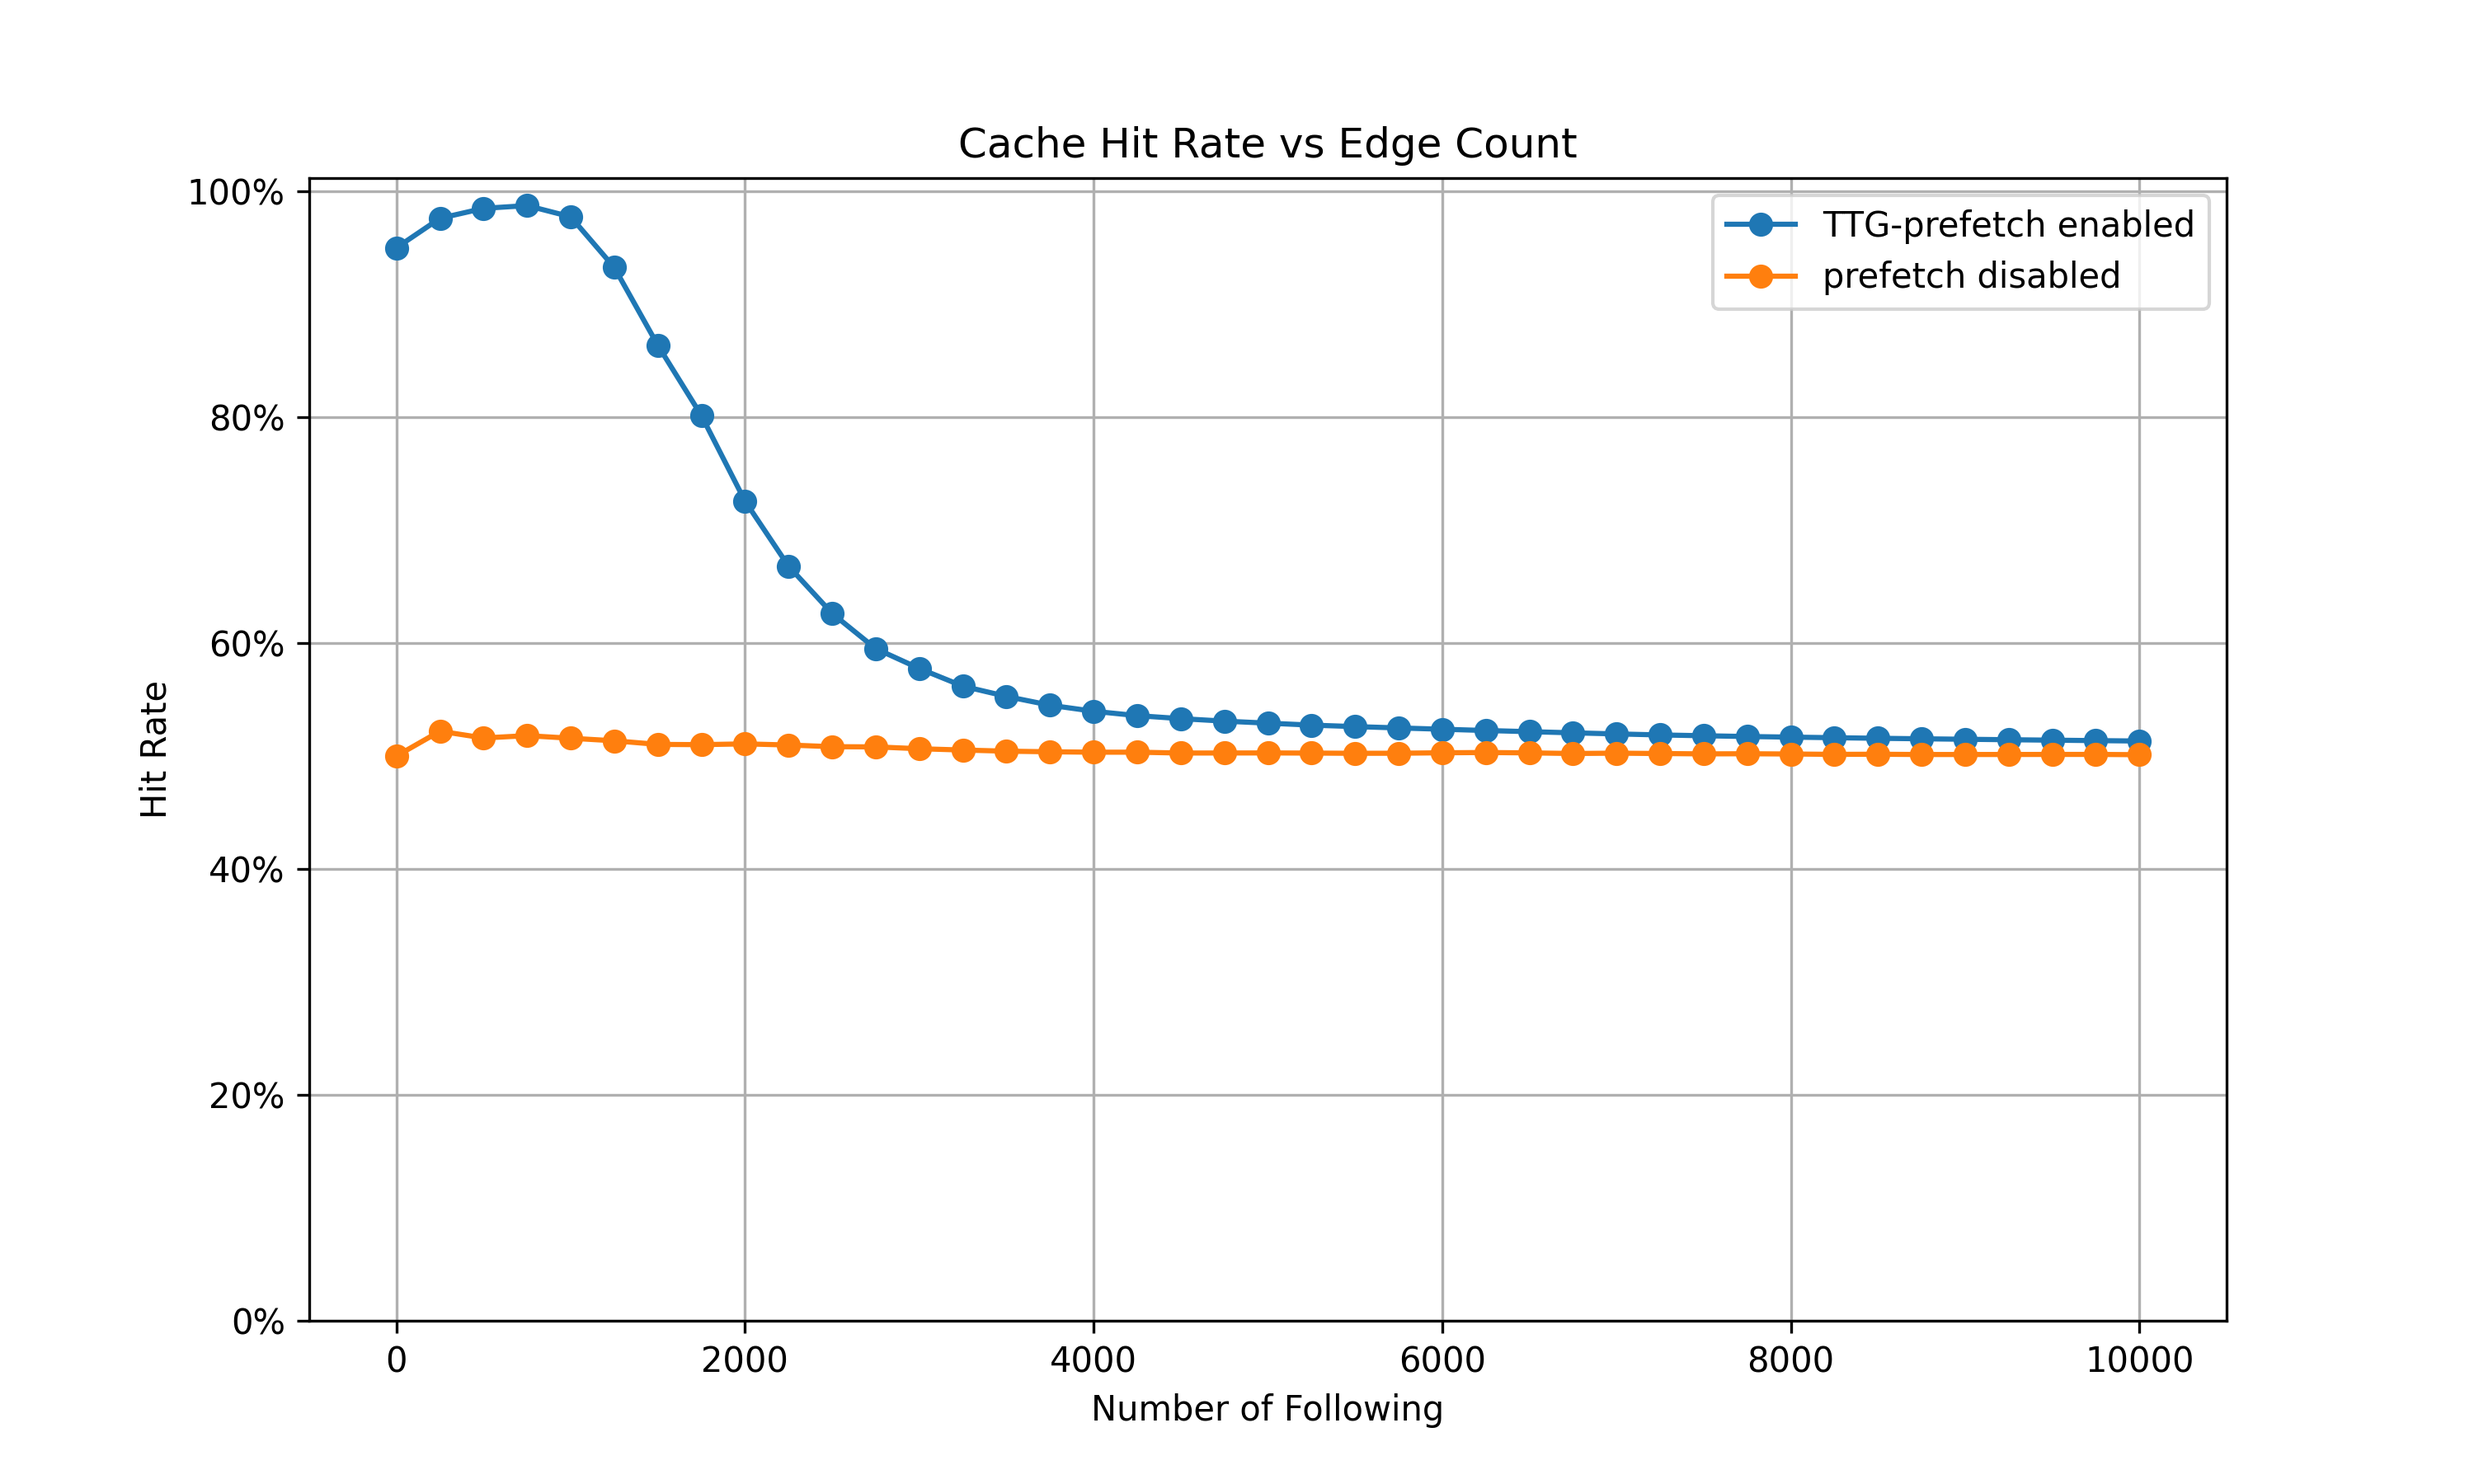
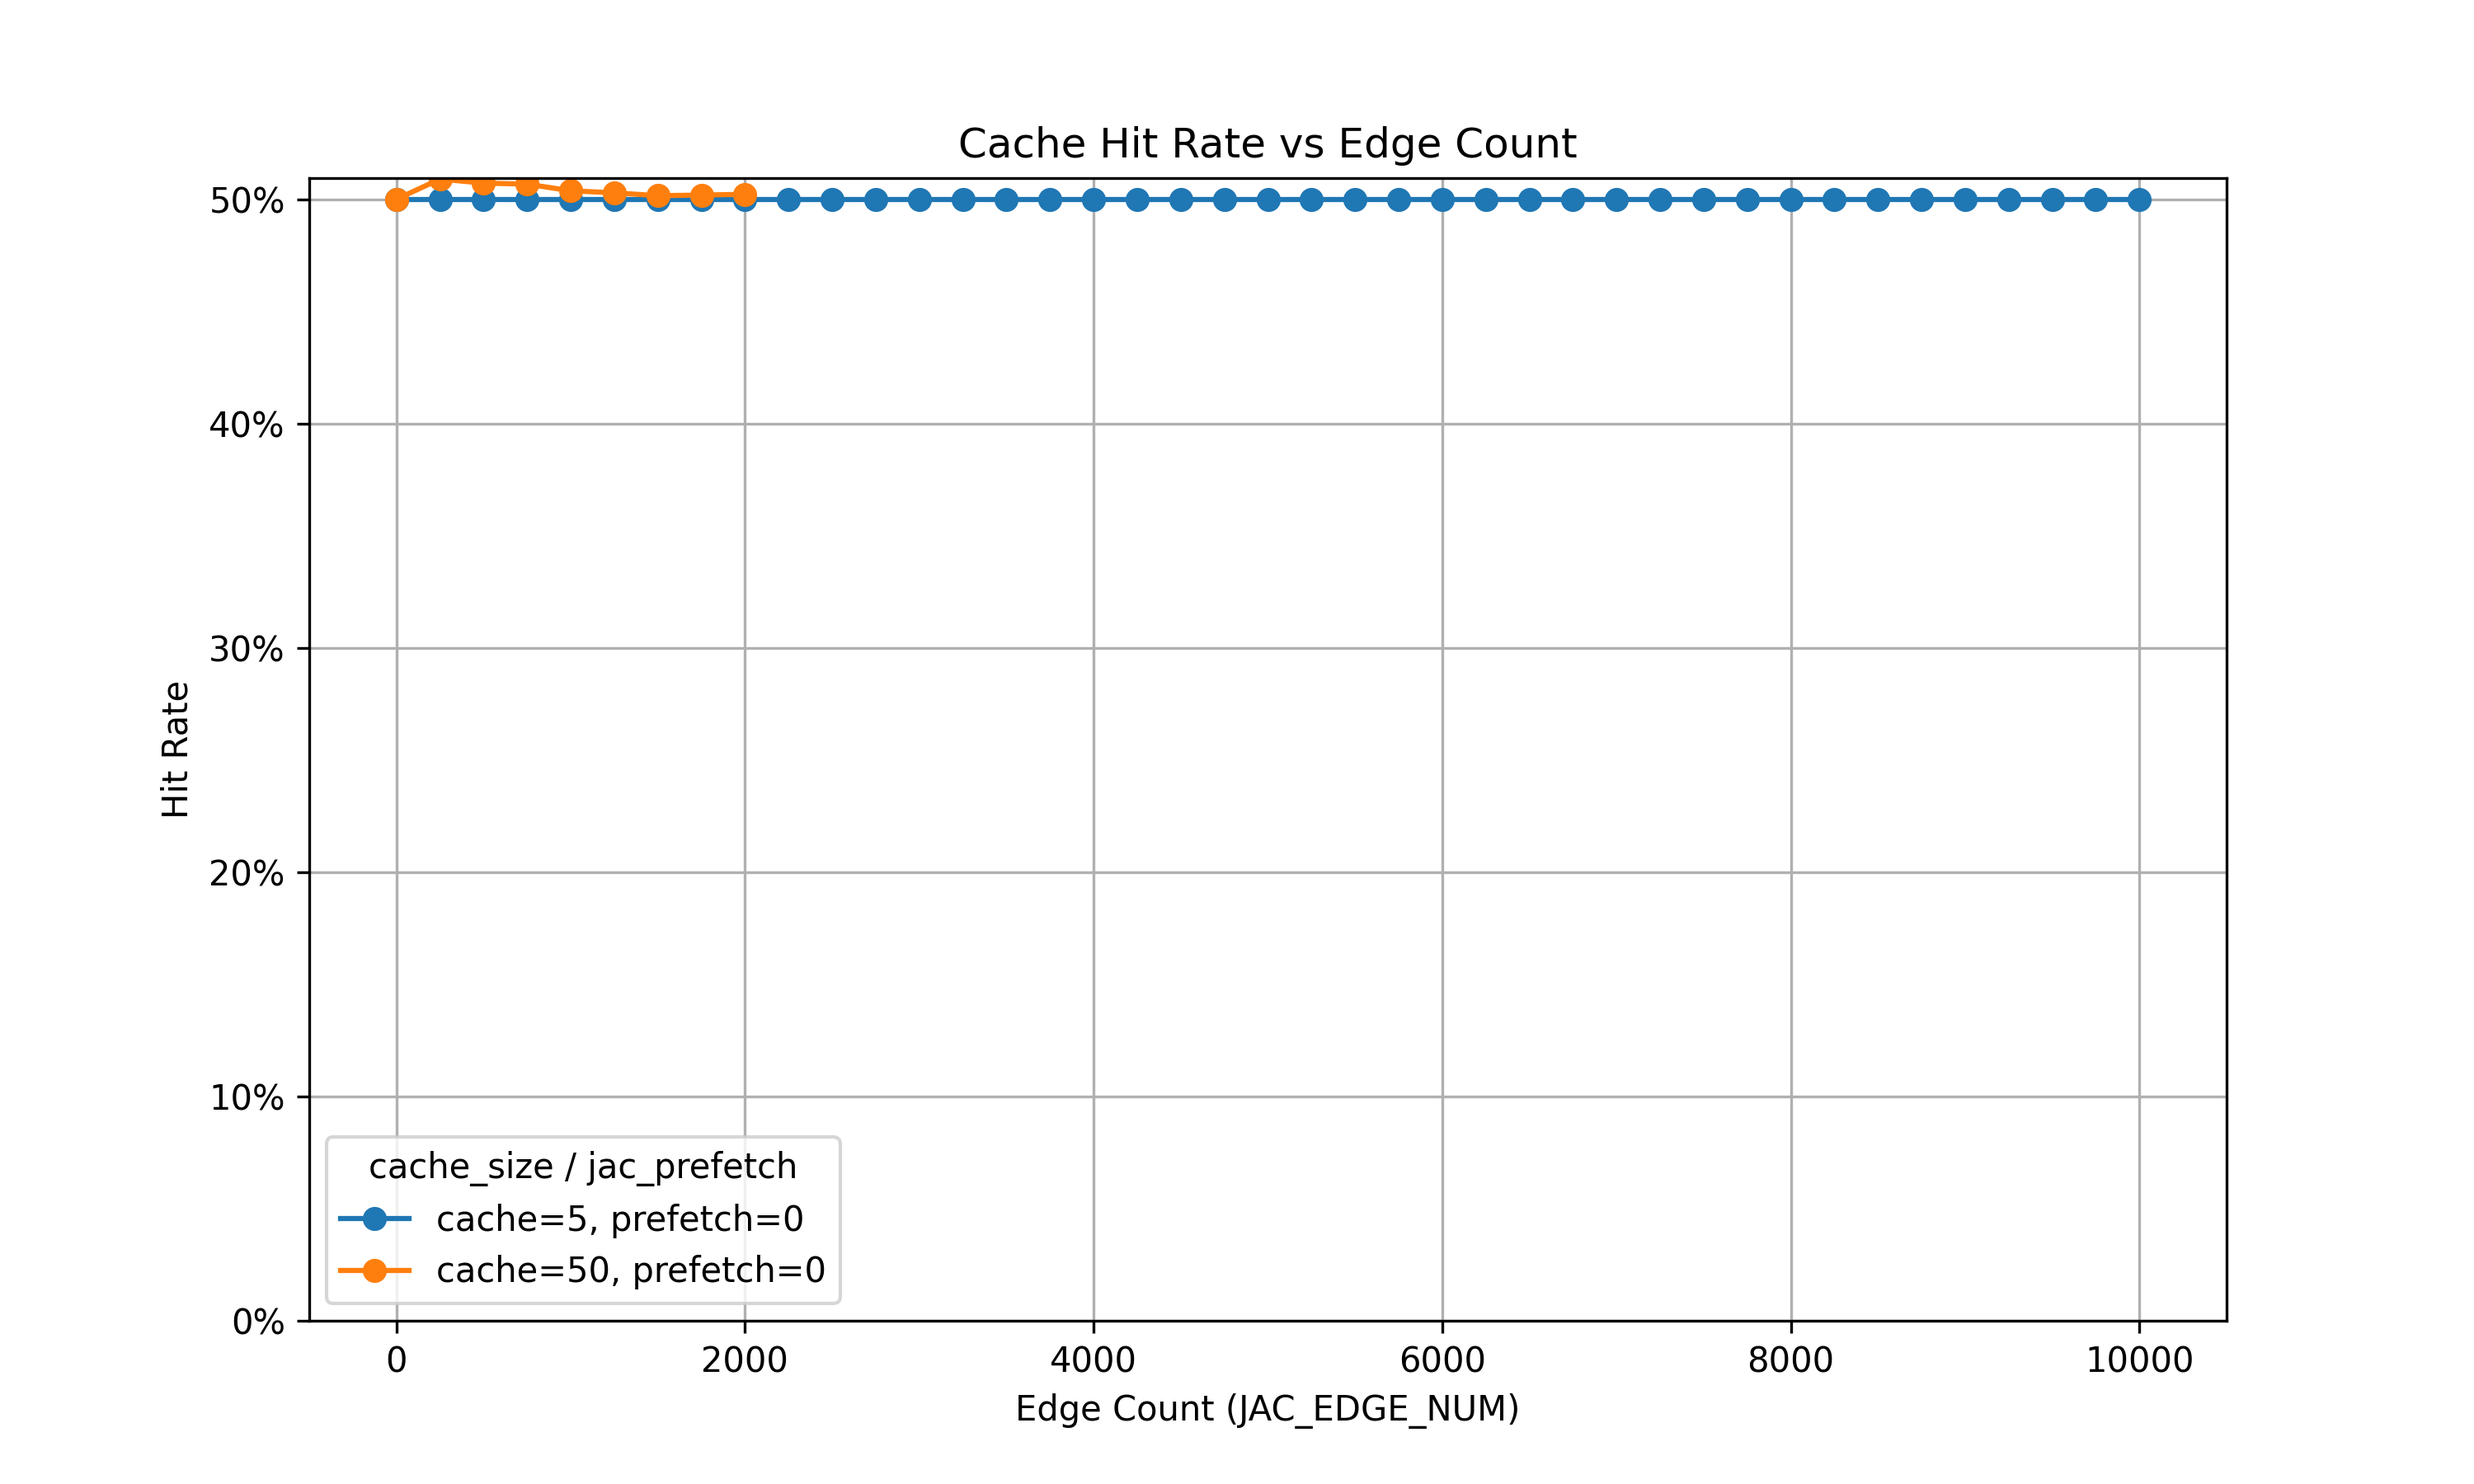
Add cache statistics JSON and update plotting functions for improved analysis

diff --git a/cache_plot.py b/cache_plot.py
@@ -2,8 +2,8 @@ import json
 from pathlib import Path
 
 import matplotlib.pyplot as plt
-from matplotlib.ticker import PercentFormatter
 import pandas as pd
+from matplotlib.ticker import PercentFormatter
 
 
 def load_cache_stats(path: str | Path) -> pd.DataFrame:
@@ -18,55 +18,46 @@ def load_cache_stats(path: str | Path) -> pd.DataFrame:
     return df
 
 
-def compute_hit_rate_by_edge(df: pd.DataFrame) -> pd.DataFrame:
-    """Group cache stats by edge count to obtain average hit rates."""
+def aggregate_hit_rates(df: pd.DataFrame) -> pd.DataFrame:
+    """Aggregate hit rates per edge count for each cache/prefetch setting."""
 
     grouped = (
-        df.groupby("JAC_EDGE_NUM")
-        .agg(
-            avg_hit_rate=("hit_rate", "mean"),
-            total_hits=("hit", "sum"),
-            total_attempts=("total_acc", "sum"),
-        )
-        .reset_index()
+        df.groupby(["cache_size", "jac_prefetch", "JAC_EDGE_NUM"], as_index=False)
+        .agg(hit=("hit", "sum"), total_acc=("total_acc", "sum"))
         .sort_values("JAC_EDGE_NUM")
     )
 
+    grouped["hit_rate"] = grouped["hit"] / grouped["total_acc"].replace({0: pd.NA})
+    grouped["hit_rate"] = grouped["hit_rate"].fillna(0)
     return grouped
 
 
-def plot_hit_rates(
-    enabled_df: pd.DataFrame,
-    disabled_df: pd.DataFrame | None = None,
+def plot_hit_rate_curves(
+    aggregated_df: pd.DataFrame,
     figsize=(10, 6),
     save_path: str | None = "cache_hit_rate.png",
 ):
-    """Plot hit rate vs edge count for both cache modes."""
+    """Plot hit rate vs edge count for each (cache_size, jac_prefetch) tuple."""
 
     plt.figure(figsize=figsize)
-    plt.plot(
-        enabled_df["JAC_EDGE_NUM"],
-        enabled_df["avg_hit_rate"],
-        label="TTG-prefetch enabled",
-        marker="o",
-    )
-
-    if disabled_df is not None:
+    for (cache_size, jac_prefetch), subset in aggregated_df.groupby(["cache_size", "jac_prefetch"]):
+        ordered = subset.sort_values("JAC_EDGE_NUM")
+        label = f"cache={cache_size}, prefetch={jac_prefetch}"
         plt.plot(
-            disabled_df["JAC_EDGE_NUM"],
-            disabled_df["avg_hit_rate"],
-            label="prefetch disabled",
+            ordered["JAC_EDGE_NUM"],
+            ordered["hit_rate"],
             marker="o",
+            label=label,
         )
 
-    plt.xlabel("Number of Following")
+    plt.xlabel("Edge Count (JAC_EDGE_NUM)")
     plt.ylabel("Hit Rate")
     plt.title("Cache Hit Rate vs Edge Count")
     ax = plt.gca()
     ax.yaxis.set_major_formatter(PercentFormatter(1.0))
     ax.set_ylim(bottom=0)
     plt.grid(True)
-    plt.legend()
+    plt.legend(title="cache_size / jac_prefetch")
 
     if save_path:
         plt.savefig(save_path, dpi=300)
@@ -76,40 +67,14 @@ def plot_hit_rates(
         plt.show()
 
 
-def resolve_dataset(label: str, candidates: list[Path], required: bool) -> Path | None:
-    """Return the first existing candidate path for a dataset."""
+def main() -> None:
+    dataset_path = Path("cache_stats.json")
+    if not dataset_path.exists():
+        raise FileNotFoundError("Could not find cache_stats.json in the current directory")
 
-    for path in candidates:
-        if path.exists():
-            return path
-
-    if required:
-        cand_str = ", ".join(str(p) for p in candidates)
-        raise FileNotFoundError(f"Could not find {label}. Checked: {cand_str}")
-
-    return None
+    aggregated_df = aggregate_hit_rates(load_cache_stats(dataset_path))
+    plot_hit_rate_curves(aggregated_df)
 
 
 if __name__ == "__main__":
-    enabled_candidates = [
-        Path("cache_stats_TTG-prefetch_enabled.json"),
-        Path("cache_stats_prefetch_enabled.json"),
-        Path("cache_stats.json"),
-        Path("new/cache_stats.json"),
-    ]
-
-    disabled_candidates = [
-        Path("cache_stats_prefetch_disabled.json"),
-        Path("cache_stats_prefetch_disabled_old.json"),
-        Path("old/cache_stats.json"),
-    ]
-
-    enabled_path = resolve_dataset("TTG-prefetch enabled metrics", enabled_candidates, required=True)
-    disabled_path = resolve_dataset("prefetch disabled metrics", disabled_candidates, required=False)
-
-    enabled_df = compute_hit_rate_by_edge(load_cache_stats(enabled_path))
-    disabled_df = None
-    if disabled_path is not None:
-        disabled_df = compute_hit_rate_by_edge(load_cache_stats(disabled_path))
-
-    plot_hit_rates(enabled_df, disabled_df)
+    main()
